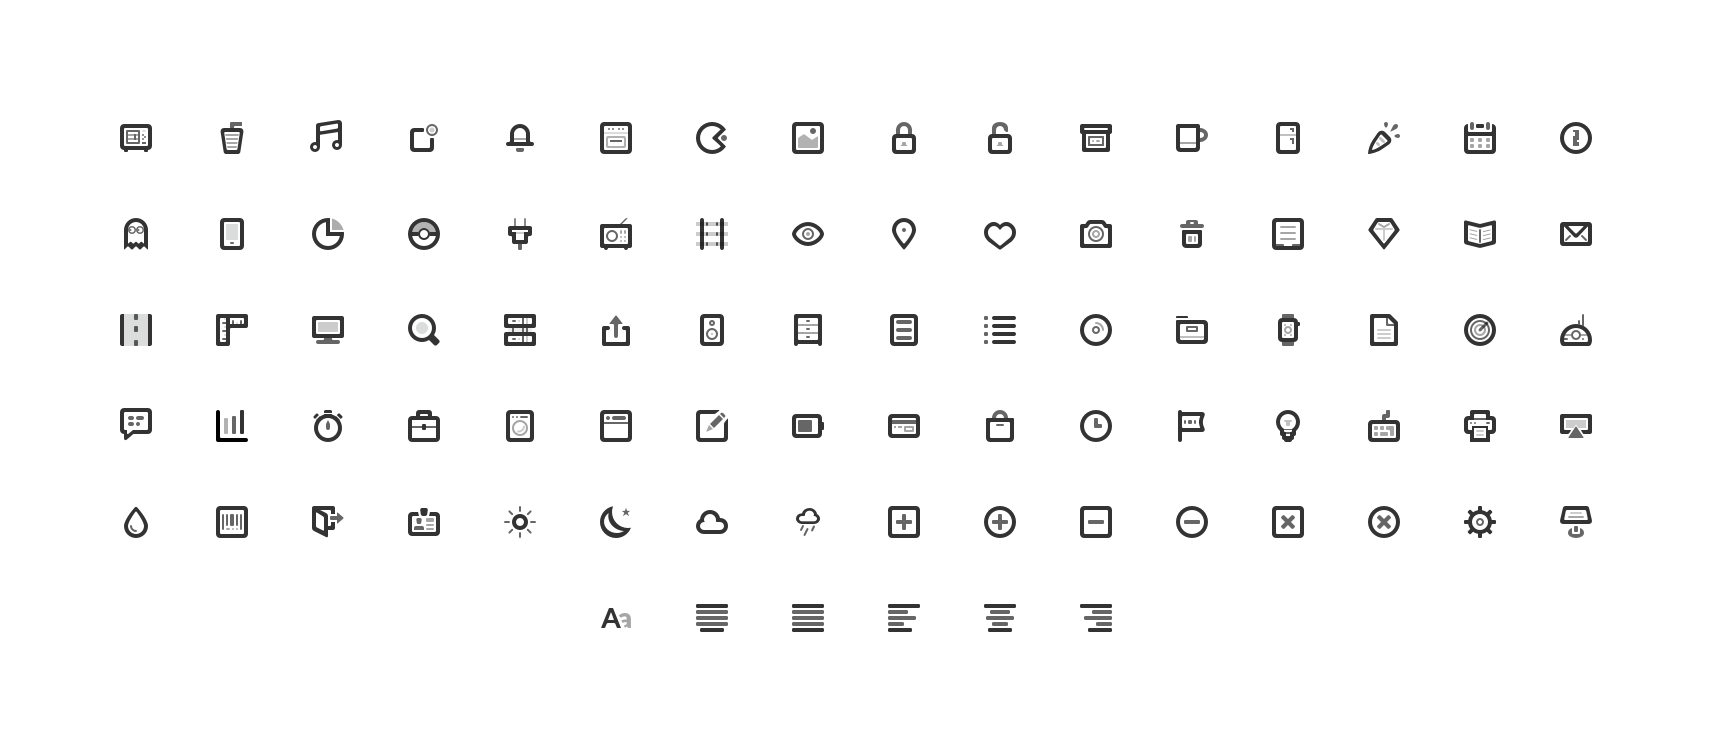
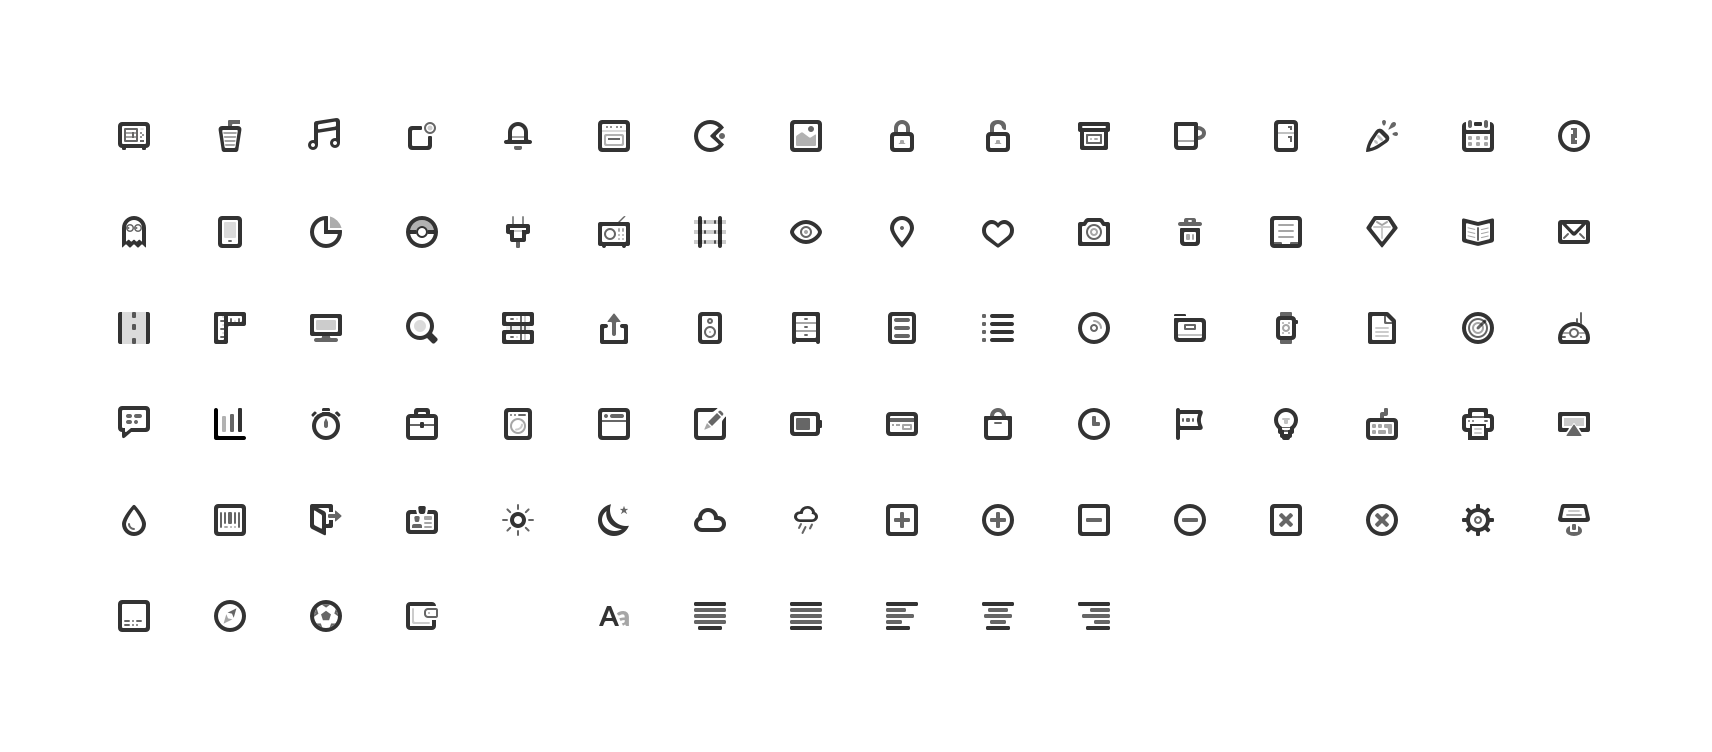
Update R7

diff --git a/index.html b/index.html
@@ -27,7 +27,6 @@
     <ul>
       <li class="first"><a href="#files">What files will I get?</a></li>
       <li><a href="#icons">Which icons are in the set?</a></li>
-      <li><a href="#latest">Latest addition to the set</a></li>
       <li><a href="#faq">FAQ</a></li>
     </ul>
   </div>
@@ -64,16 +63,8 @@
 
   <div class="section center" id="icons">
     <h2>Which icons are in the set?</h2>
-    <p>Currently the set includes these <span class="type">86</span> icons.</p>
+    <p>Currently the set includes these <span class="type">90</span> icons.</p>
 		<span class="all">all icons</span>
-  </div>
-
-  <div class="section center" id="latest">
-    <h2>Latest addition to the set</h2>
-    <p>April 21, 2016 &middot; 2 icons</p>
-		<span class="release">Release 6</span>
-		<h3>Settings / Keynote</h3>
-		<p>Next release: April 25th, 2016 &middot; <a href="https://gum.co/oakcons?wanted=true" target="_blank">Subscribe now</a> to get it.</p>
   </div>
 
   <div class="section -last" id="faq">
